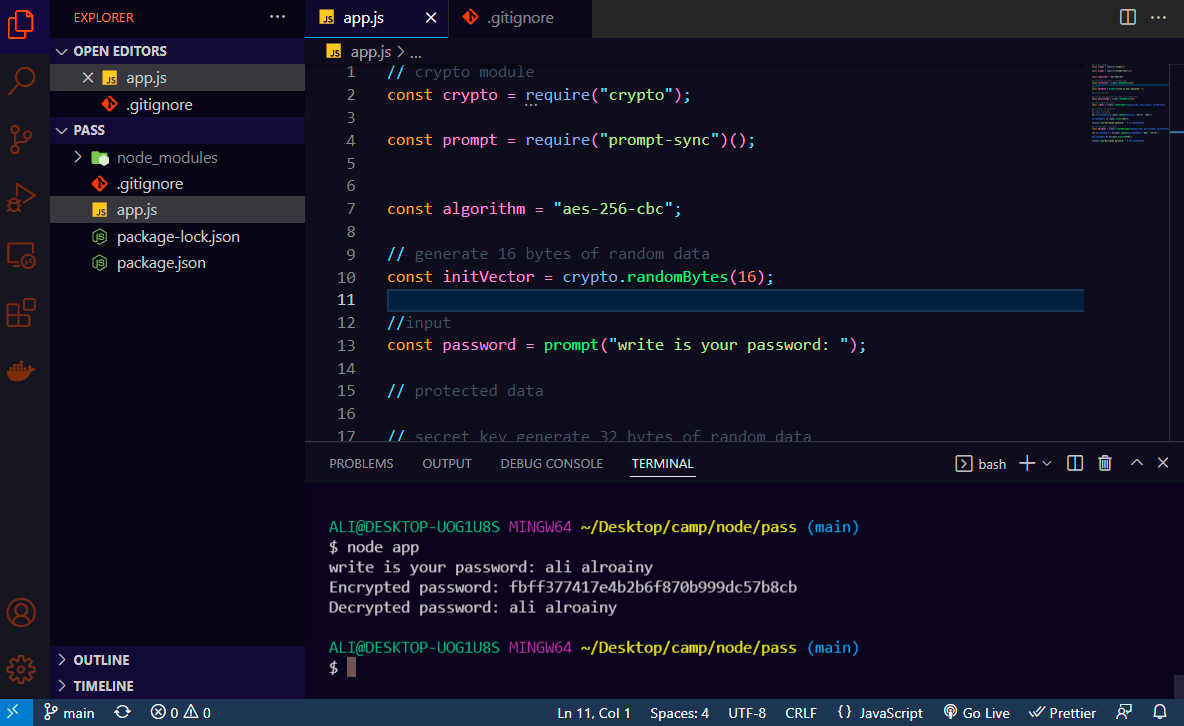
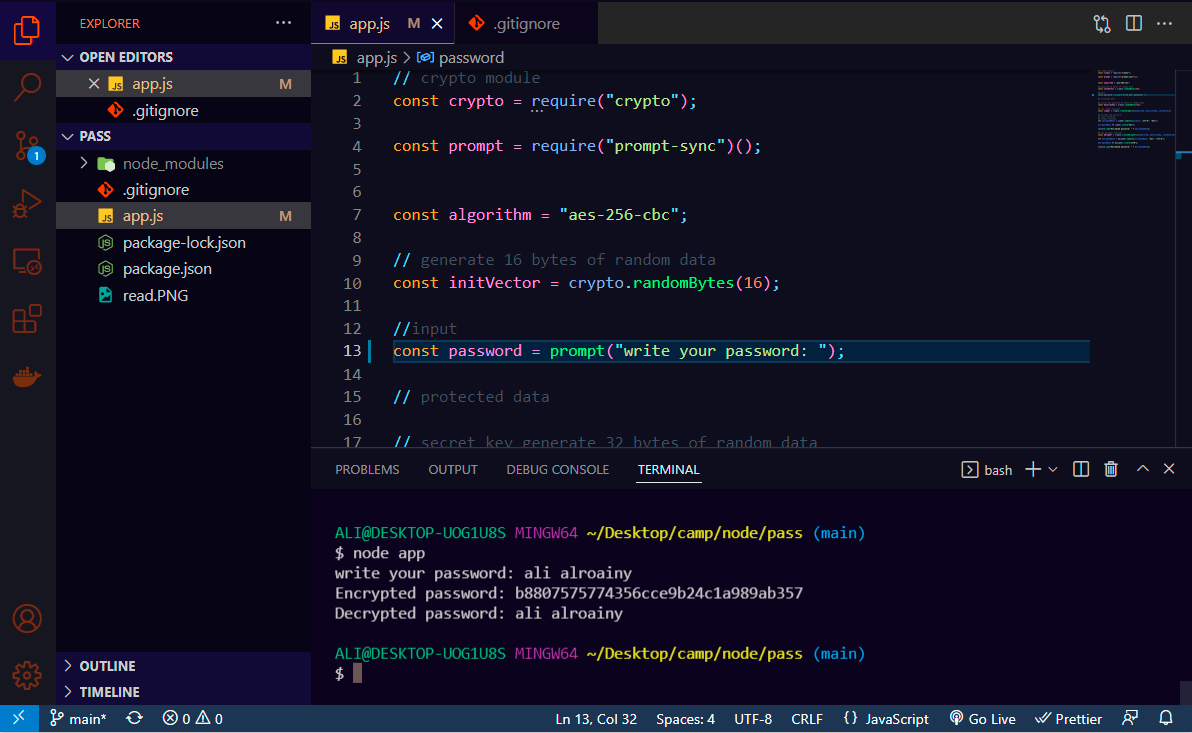
add readme right  img

diff --git a/app.js b/app.js
@@ -10,7 +10,7 @@ const algorithm = "aes-256-cbc";
 const initVector = crypto.randomBytes(16);
 
 //input 
-const password = prompt("write is your password: ");
+const password = prompt("write your password: ");
 
 // protected data
 
